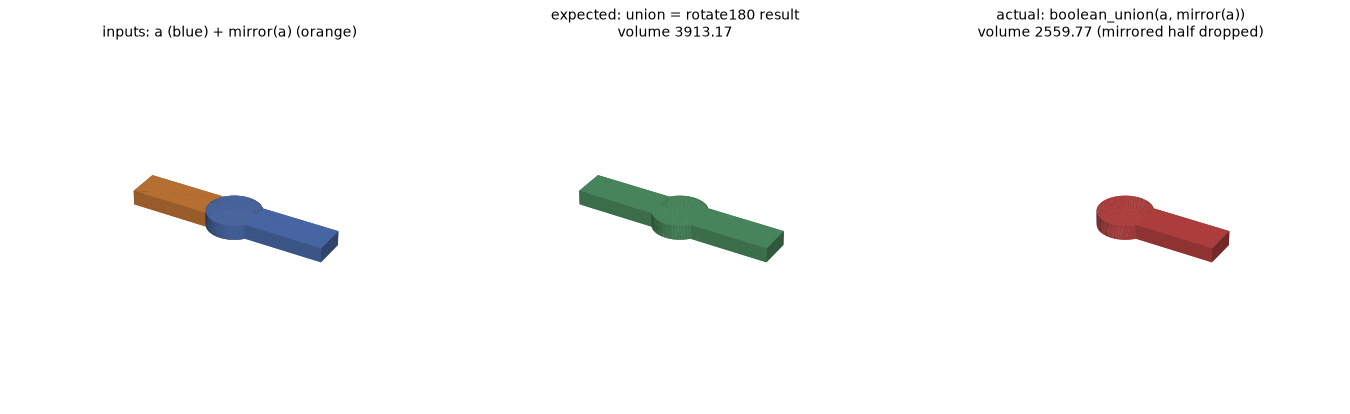
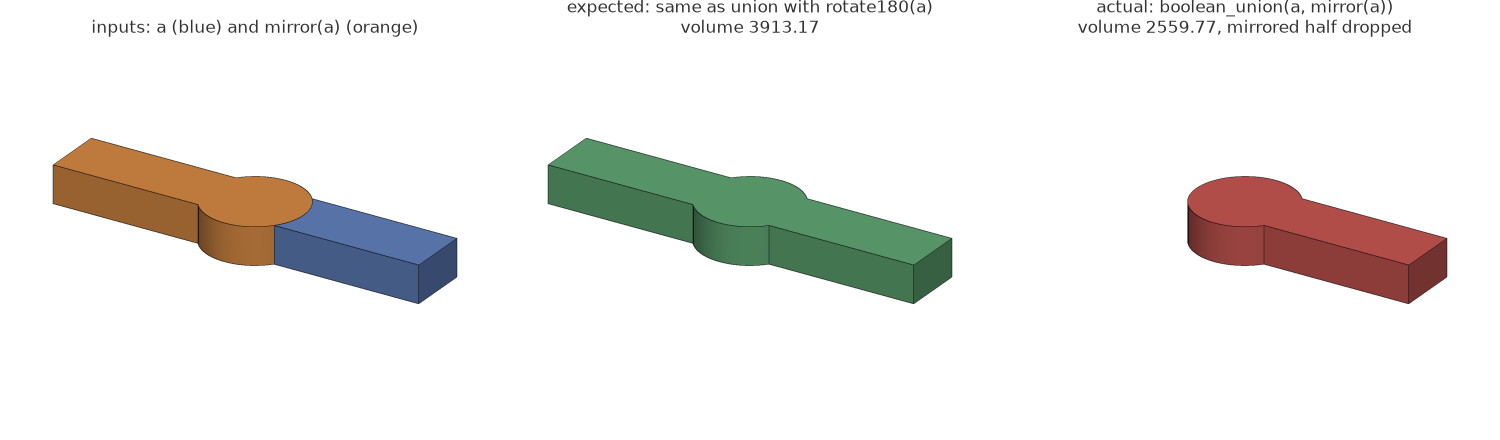
Fix twisted circle-to-polygon lofts; clean renderer for images
- Loft splits circle sections into exact arcs at the polygon's corner
  angles; the kernel's own split twisted circle/hexagon lofts
- gallery/render.py is now a z-buffer renderer with smooth shading and
  outlines on real edges (no visible mesh triangles)
- Re-render docs images

diff --git a/gallery/render.py b/gallery/render.py
@@ -1,41 +1,204 @@
-"""Render every STL in gallery/out (and examples/out) into gallery/out/gallery.png.
+"""Render STL meshes as clean CAD-style images (no visible triangles).
 
-Runs in a plain Python image (no kernel needed):
-    docker run --rm -v "$PWD/..":/k -w /k/gallery python:3.12-slim \
+A small numpy rasterizer: z-buffer, crease-aware smooth normals (curved faces shade smoothly,
+real edges stay sharp), 3x supersampling, and outlines drawn where depth or normals jump.
+
+Gallery sheet of every STL in gallery/out and examples/out:
+    docker run --rm -v "$PWD/..":/k -w /k/gallery python:3.12-slim \\
       sh -c "pip install -q matplotlib numpy && python render.py"
+
+Also importable: ``render(meshes, ...)`` returns an RGB array.
 """
+
+from __future__ import annotations
+
 import glob
 import struct
 
-import matplotlib
 import numpy as np
 
-matplotlib.use("Agg")
-import matplotlib.pyplot as plt  # noqa: E402
-from mpl_toolkits.mplot3d.art3d import Poly3DCollection  # noqa: E402
+CREASE_DEG = 35.0  # adjacent triangles bent more than this keep separate normals
+LIGHT = np.array([0.35, -0.55, 0.76])
+LIGHT /= np.linalg.norm(LIGHT)
+FILL = np.array([-0.6, 0.3, 0.2])
+FILL /= np.linalg.norm(FILL)
 
-files = sorted(glob.glob("out/*.stl")) + sorted(glob.glob("../examples/out/*.stl"))
-cols = 4
-rows = (len(files) + cols - 1) // cols
-fig = plt.figure(figsize=(cols * 4, rows * 4))
-light = np.array([0.4, -0.5, 0.75])
-light /= np.linalg.norm(light)
-for i, f in enumerate(files):
-    data = open(f, "rb").read()
+
+def load_stl(path: str) -> np.ndarray:
+    data = open(path, "rb").read()
     n = struct.unpack("<I", data[80:84])[0]
     rec = np.frombuffer(data[84 : 84 + n * 50], dtype=np.dtype([("n", "<3f4"), ("v", "<9f4"), ("a", "<u2")]))
-    tri = rec["v"].reshape(-1, 3, 3)
-    shade = np.clip(rec["n"] @ light, 0, 1) * 0.7 + 0.25
-    ax = fig.add_subplot(rows, cols, i + 1, projection="3d")
-    ax.add_collection3d(Poly3DCollection(tri, facecolors=np.c_[shade * 0.55, shade * 0.65, shade * 0.8], edgecolor="none"))
-    lo, hi = tri.reshape(-1, 3).min(0), tri.reshape(-1, 3).max(0)
-    c, r = (lo + hi) / 2, (hi - lo).max() / 2
-    ax.set_xlim(c[0] - r, c[0] + r)
-    ax.set_ylim(c[1] - r, c[1] + r)
-    ax.set_zlim(c[2] - r, c[2] + r)
-    ax.view_init(25, -55)
-    ax.set_axis_off()
-    ax.set_title(f.split("/")[-1][:-4], fontsize=11)
-plt.tight_layout()
-plt.savefig("out/gallery.png", dpi=80)
-print(f"rendered {len(files)} parts")
+    return rec["v"].reshape(-1, 3, 3).astype(np.float64)
+
+
+def _corner_normals(tri: np.ndarray) -> np.ndarray:
+    """Per-corner normals: average of adjacent face normals within the crease angle."""
+    fn = np.cross(tri[:, 1] - tri[:, 0], tri[:, 2] - tri[:, 0])
+    area = np.linalg.norm(fn, axis=1)
+    keep = area > 1e-12
+    fn = np.where(keep[:, None], fn / np.maximum(area[:, None], 1e-30), 0)
+    span = np.ptp(tri.reshape(-1, 3), axis=0).max() or 1.0
+    key = np.round(tri.reshape(-1, 3) / (span * 1e-6)).astype(np.int64)
+    _, vid = np.unique(key, axis=0, return_inverse=True)
+    vid = vid.reshape(-1)
+    corner_face = np.repeat(np.arange(len(tri)), 3)
+    order = np.argsort(vid, kind="stable")
+    starts = np.r_[0, np.flatnonzero(np.diff(vid[order])) + 1, len(order)]
+    cos_crease = np.cos(np.radians(CREASE_DEG))
+    out = np.repeat(fn, 3, axis=0)
+    weighted = fn * area[:, None]
+    for s, e in zip(starts[:-1], starts[1:]):
+        corners = order[s:e]
+        if len(corners) < 2:
+            continue
+        faces = corner_face[corners]
+        n_f = fn[faces]
+        sim = n_f @ n_f.T >= cos_crease
+        acc = sim.astype(float) @ weighted[faces]
+        norm = np.linalg.norm(acc, axis=1, keepdims=True)
+        out[corners] = np.where(norm > 1e-30, acc / np.maximum(norm, 1e-30), n_f)
+    return out.reshape(-1, 3, 3)
+
+
+def _smooth_groups(tri: np.ndarray) -> np.ndarray:
+    """Label triangles so each smooth surface (no crease inside it) gets one id."""
+    fn = np.cross(tri[:, 1] - tri[:, 0], tri[:, 2] - tri[:, 0])
+    fn /= np.maximum(np.linalg.norm(fn, axis=1, keepdims=True), 1e-30)
+    span = np.ptp(tri.reshape(-1, 3), axis=0).max() or 1.0
+    key = np.round(tri.reshape(-1, 3) / (span * 1e-6)).astype(np.int64)
+    _, vid = np.unique(key, axis=0, return_inverse=True)
+    vid = vid.reshape(-1, 3)
+    edges = np.concatenate([np.sort(vid[:, [i, (i + 1) % 3]], axis=1) for i in range(3)])
+    owner = np.tile(np.arange(len(tri)), 3)
+    order = np.lexsort((edges[:, 1], edges[:, 0]))
+    e, o = edges[order], owner[order]
+    same = np.all(e[1:] == e[:-1], axis=1)
+    parent = np.arange(len(tri))
+
+    def find(i):
+        while parent[i] != i:
+            parent[i] = parent[parent[i]]
+            i = parent[i]
+        return i
+
+    cos_crease = np.cos(np.radians(CREASE_DEG))
+    for k in np.flatnonzero(same):
+        a, b = o[k], o[k + 1]
+        if fn[a] @ fn[b] >= cos_crease:
+            ra, rb = find(a), find(b)
+            if ra != rb:
+                parent[ra] = rb
+    return np.array([find(i) for i in range(len(tri))])
+
+
+def _view_basis(elev: float, azim: float):
+    e, a = np.radians(elev), np.radians(azim)
+    fwd = -np.array([np.cos(e) * np.cos(a), np.cos(e) * np.sin(a), np.sin(e)])  # camera looks along fwd
+    right = np.cross(fwd, [0, 0, 1.0])
+    right /= np.linalg.norm(right)
+    up = np.cross(right, fwd)
+    return right, up, fwd
+
+
+def render(meshes, colors, size=(480, 400), elev=26.0, azim=-58.0, ss=3, bounds=None) -> np.ndarray:
+    """Render a list of triangle arrays (N,3,3) with RGB colors to an (H, W, 3) float image."""
+    W, H = size[0] * ss, size[1] * ss
+    right, up, fwd = _view_basis(elev, azim)
+    allpts = np.concatenate([m.reshape(-1, 3) for m in meshes])
+    lo, hi = (allpts.min(0), allpts.max(0)) if bounds is None else bounds
+    center = (lo + hi) / 2
+    corners = np.array([[x, y, z] for x in (lo[0], hi[0]) for y in (lo[1], hi[1]) for z in (lo[2], hi[2])]) - center
+    extent = max(np.abs(corners @ right).max() / W, np.abs(corners @ up).max() / H) * 2.25
+    zbuf = np.full((H, W), np.inf)
+    nbuf = np.zeros((H, W, 3))
+    cbuf = np.ones((H, W, 3))
+    idbuf = np.full((H, W), -1, dtype=np.int64)
+    group_offset = 0
+    # later meshes win depth ties, so coincident surfaces don't speckle
+    bias = 1e-3 * float(np.ptp(allpts, axis=0).max())
+    for k, (mesh, color) in enumerate(zip(meshes, colors)):
+        cn = _corner_normals(mesh)
+        groups = _smooth_groups(mesh) + group_offset
+        group_offset = groups.max() + 1
+        rel = mesh - center
+        sx = (rel @ right) / extent + W / 2
+        sy = H / 2 - (rel @ up) / extent
+        sz = rel @ fwd - k * bias
+        color = np.asarray(color, dtype=float)
+        for t in range(len(mesh)):
+            x, y, z = sx[t], sy[t], sz[t]
+            x0, x1 = int(max(np.floor(x.min()), 0)), int(min(np.ceil(x.max()), W - 1))
+            y0, y1 = int(max(np.floor(y.min()), 0)), int(min(np.ceil(y.max()), H - 1))
+            if x0 > x1 or y0 > y1:
+                continue
+            den = (y[1] - y[2]) * (x[0] - x[2]) + (x[2] - x[1]) * (y[0] - y[2])
+            if abs(den) < 1e-12:
+                continue
+            px, py = np.meshgrid(np.arange(x0, x1 + 1) + 0.5, np.arange(y0, y1 + 1) + 0.5)
+            w0 = ((y[1] - y[2]) * (px - x[2]) + (x[2] - x[1]) * (py - y[2])) / den
+            w1 = ((y[2] - y[0]) * (px - x[2]) + (x[0] - x[2]) * (py - y[2])) / den
+            w2 = 1 - w0 - w1
+            inside = (w0 >= -1e-9) & (w1 >= -1e-9) & (w2 >= -1e-9)
+            if not inside.any():
+                continue
+            depth = w0 * z[0] + w1 * z[1] + w2 * z[2]
+            region = zbuf[y0 : y1 + 1, x0 : x1 + 1]
+            win = inside & (depth < region)
+            if not win.any():
+                continue
+            region[win] = depth[win]
+            n = w0[win, None] * cn[t, 0] + w1[win, None] * cn[t, 1] + w2[win, None] * cn[t, 2]
+            nbuf[y0 : y1 + 1, x0 : x1 + 1][win] = n / np.linalg.norm(n, axis=1, keepdims=True)
+            cbuf[y0 : y1 + 1, x0 : x1 + 1][win] = color
+            idbuf[y0 : y1 + 1, x0 : x1 + 1][win] = groups[t]
+
+    hit = np.isfinite(zbuf)
+    n = nbuf
+    facing = np.where((n @ -fwd)[..., None] < 0, -n, n)  # light both sides of thin/open parts
+    diffuse = np.clip(facing @ LIGHT, 0, 1)
+    fill = np.clip(facing @ FILL, 0, 1)
+    half = LIGHT - fwd
+    half /= np.linalg.norm(half)
+    spec = np.clip(facing @ half, 0, 1) ** 40
+    shade = 0.32 + 0.58 * diffuse + 0.15 * fill
+    img = cbuf * shade[..., None] + 0.22 * spec[..., None]
+    img = np.where(hit[..., None], img, 1.0)
+
+    # outlines: silhouettes, depth jumps, and boundaries between smooth surfaces (real edges)
+    z = np.where(hit, zbuf, np.nan)
+    edge = np.zeros((H, W), dtype=bool)
+    dz_tol = extent * 6
+    for dy, dx in ((0, 1), (1, 0)):
+        shift = lambda a: np.roll(np.roll(a, -dy, 0), -dx, 1)  # noqa: E731
+        b_hit = shift(hit)
+        silhouette = hit ^ b_hit
+        with np.errstate(invalid="ignore"):
+            depth_jump = np.nan_to_num(np.abs(z - shift(z)) > dz_tol, nan=False)
+        surface_change = (idbuf != shift(idbuf)) & hit & b_hit
+        edge |= silhouette | depth_jump | surface_change
+    edge = edge | np.roll(edge, 1, 0) | np.roll(edge, 1, 1)
+    img = np.where(edge[..., None], img * 0.35, img)
+    img = img.reshape(H // ss, ss, W // ss, ss, 3).mean(axis=(1, 3))
+    return np.clip(img, 0, 1)
+
+
+def gallery(files, out_path, cols=4, tile=(420, 340), color=(0.55, 0.66, 0.82)):
+    import matplotlib
+
+    matplotlib.use("Agg")
+    import matplotlib.pyplot as plt
+
+    rows = (len(files) + cols - 1) // cols
+    fig, axes = plt.subplots(rows, cols, figsize=(cols * tile[0] / 100, rows * (tile[1] + 40) / 100), dpi=100)
+    for ax in np.ravel(axes):
+        ax.set_axis_off()
+    for ax, f in zip(np.ravel(axes), files):
+        ax.imshow(render([load_stl(f)], [color], size=tile))
+        ax.set_title(f.split("/")[-1][:-4].replace("_", " "), fontsize=12, color="#333")
+    fig.tight_layout()
+    fig.savefig(out_path, facecolor="white")
+    print(f"rendered {len(files)} parts -> {out_path}")
+
+
+if __name__ == "__main__":
+    gallery(sorted(glob.glob("out/*.stl")) + sorted(glob.glob("../examples/out/*.stl")), "out/gallery.png")

diff --git a/src/keel/sketch.py b/src/keel/sketch.py
@@ -282,38 +282,75 @@ def sweep(sketch: Sketch, path) -> Part:
 def loft(*sketches: Sketch, smooth: bool = False) -> Part:
     """Skin a solid through single-region sketches (each placed with ``.on``).
 
-    The kernel joins each section's loop start to the next one's, so keel first lines
-    every section's start up with the first section's (rotating polygon loops, or turning
-    single-curve loops like circles about their center) to avoid a twisted result.
+    The kernel joins section loops curve-for-curve from their start points, so keel lines
+    sections up first: polygon loops are rotated to start nearest the first section's start,
+    and circles are split into arcs at the polygon's corner angles (otherwise the kernel
+    splits them its own way and the loft twists).
     """
     sketches = list(sketches[0]) if len(sketches) == 1 and isinstance(sketches[0], (list, tuple)) else list(sketches)
     if len(sketches) < 2:
         raise ValueError("loft needs at least two sketches")
-    counts, curves, ref = [], [], None
+    sections = []  # (sketch, center_world, loop curves)
     for s in sketches:
         placed = s._placed()
         if placed.face_count() != 1:
             raise KeelError("loft sections must be single regions")
-        face = placed.faces()[0]
-        center = tuple(face.centroid())
         loops = s._loop_curves()
         if loops[0][1]:
             raise KeelError("loft sections must not have holes")
-        loop = loops[0][0]
-        if ref is None:
-            ref = g.norm(g.sub(tuple(loop[0].start_point()), center))
-        elif len(loop) == 1:
-            start_dir = g.norm(g.sub(tuple(loop[0].start_point()), center))
-            angle = math.degrees(math.atan2(g.dot(g.cross(start_dir, ref), s.plane.z), g.dot(start_dir, ref)))
-            if abs(angle) > 1e-9:
-                loop = s.on(s.plane.rotated(0)).rotate(angle)._loop_curves()[0][0]
-        else:
-            def misalign(i):
-                d = g.norm(g.sub(tuple(loop[i].start_point()), center))
-                return -g.dot(d, ref)
-            k = min(range(len(loop)), key=misalign)
+        sections.append((s, tuple(placed.faces()[0].centroid()), loops[0][0]))
+
+    # reference direction: the first section's start, as an angle in its own plane
+    s0, c0, loop0 = sections[0]
+    ref_local = s0.plane.to_local(tuple(loop0[0].start_point()))
+    c0_local = s0.plane.to_local(c0)
+    ref_angle = math.atan2(ref_local[1] - c0_local[1], ref_local[0] - c0_local[0])
+
+    def local_angle(s, center, point):
+        p, c = s.plane.to_local(point), s.plane.to_local(center)
+        return math.atan2(p[1] - c[1], p[0] - c[0])
+
+    aligned = []
+    for s, center, loop in sections:
+        if len(loop) > 1:  # rotate so the loop starts at the corner closest to the reference angle
+            def miss(i):
+                d = local_angle(s, center, tuple(loop[i].start_point())) - ref_angle
+                return abs(math.atan2(math.sin(d), math.cos(d)))
+            k = min(range(len(loop)), key=miss)
             loop = loop[k:] + loop[:k]
+        aligned.append((s, center, loop))
+
+    # corner angles of the first multi-curve section, used to split circle sections
+    corners = None
+    for s, center, loop in aligned:
+        if len(loop) > 1:
+            corners = [local_angle(s, center, tuple(c.start_point())) for c in loop]
+            break
+
+    counts, curves = [], []
+    for s, center, loop in aligned:
+        if len(loop) == 1:
+            r = _circle_radius(loop)
+            if r is not None:
+                angles = corners if corners is not None else [ref_angle]
+                loop = _circle_arcs(s.plane, s.plane.to_local(center), r, angles)
         counts.append(len(loop))
         curves += loop
     degree = min(3, len(sketches) - 1) if smooth else 1
     return Part(call("loft", ub.create_skin_primitive, counts, curves, degree))
+
+
+def _circle_arcs(plane: Plane, center_local, radius: float, angles_rad) -> list:
+    """A full circle as counter-clockwise arcs starting at each angle (exact), placed on ``plane``."""
+    degs = [math.degrees(a) for a in angles_rad]
+    if len(degs) == 1:
+        # one full turn: two half arcs keep the kernel's arc constructor happy
+        degs = [degs[0], degs[0] + 180.0]
+    out = []
+    c = (center_local[0], center_local[1], 0.0)
+    for i, a0 in enumerate(degs):
+        a1 = degs[(i + 1) % len(degs)]
+        while a1 <= a0:
+            a1 += 360.0
+        out.append(plane.place(ub.create_arc(c, radius, a0, a1)))
+    return out

diff --git a/tests/test_keel.py b/tests/test_keel.py
@@ -309,3 +309,12 @@ def test_loft_sections_are_aligned_not_twisted():
     assert close(p.volume, hexagon.area * 20)
     q = loft(Circle(5), RegularPolygon(5, 4, rotation=45).on(Plane.XY.offset(10)), Circle(5).on(Plane.XY.offset(20)))
     assert q.is_valid
+
+
+def test_loft_polygon_to_circle_is_not_twisted():
+    # hexagon (corner on +X) to circle of the same circumradius. Untwisted, the mid-height
+    # slice is widest along X (corner direction); a twisted loft turns that bulge away.
+    p = loft(RegularPolygon(10, 6), Circle(10).on(Plane.XY.offset(20)))
+    mid = p & Box(40, 40, 0.5).move(0, 0, 10)
+    size = mid.bbox.size
+    assert size[0] > size[1] + 0.5

diff --git a/README.md b/README.md
@@ -136,7 +136,7 @@ Files are written by NVIDIA's own exporter, so anything that reads usd-brep's sc
 - `Part.volume` and `Sketch.area` are measured to ~1e-6. The kernel's quick `volume()` can be
   0.1–0.7% off. `Part.area` is ~1e-4, the kernel's finest. `Part.bbox` is the tight box of the
   trimmed geometry.
-- Lofts line up each section's start point with the first section's, so circle → polygon → circle doesn't twist.
+- Lofts line up sections before skinning: polygon loops start at the corner nearest the first section's start, and circles are split into exact arcs at the polygon's corner angles, so circle → polygon → circle doesn't twist.
 - Not available yet: text, STEP import/export, and per-edge variable fillets.
 
 ## Testing
@@ -144,7 +144,7 @@ Files are written by NVIDIA's own exporter, so anything that reads usd-brep's sc
 `bin/keel -m pytest tests` runs the unit tests, checked against analytic volumes to 1e-4.
 `cd gallery && ../bin/keel gallery.py` builds 12 realistic parts, checks each is valid and
 survives a USD round trip, and writes STL/USD. `render.py` there draws them all into
-`gallery/out/gallery.png`.
+`gallery/out/gallery.png`, using a small z-buffer renderer with smooth shading and edge outlines.
 
 ## Layout
 
